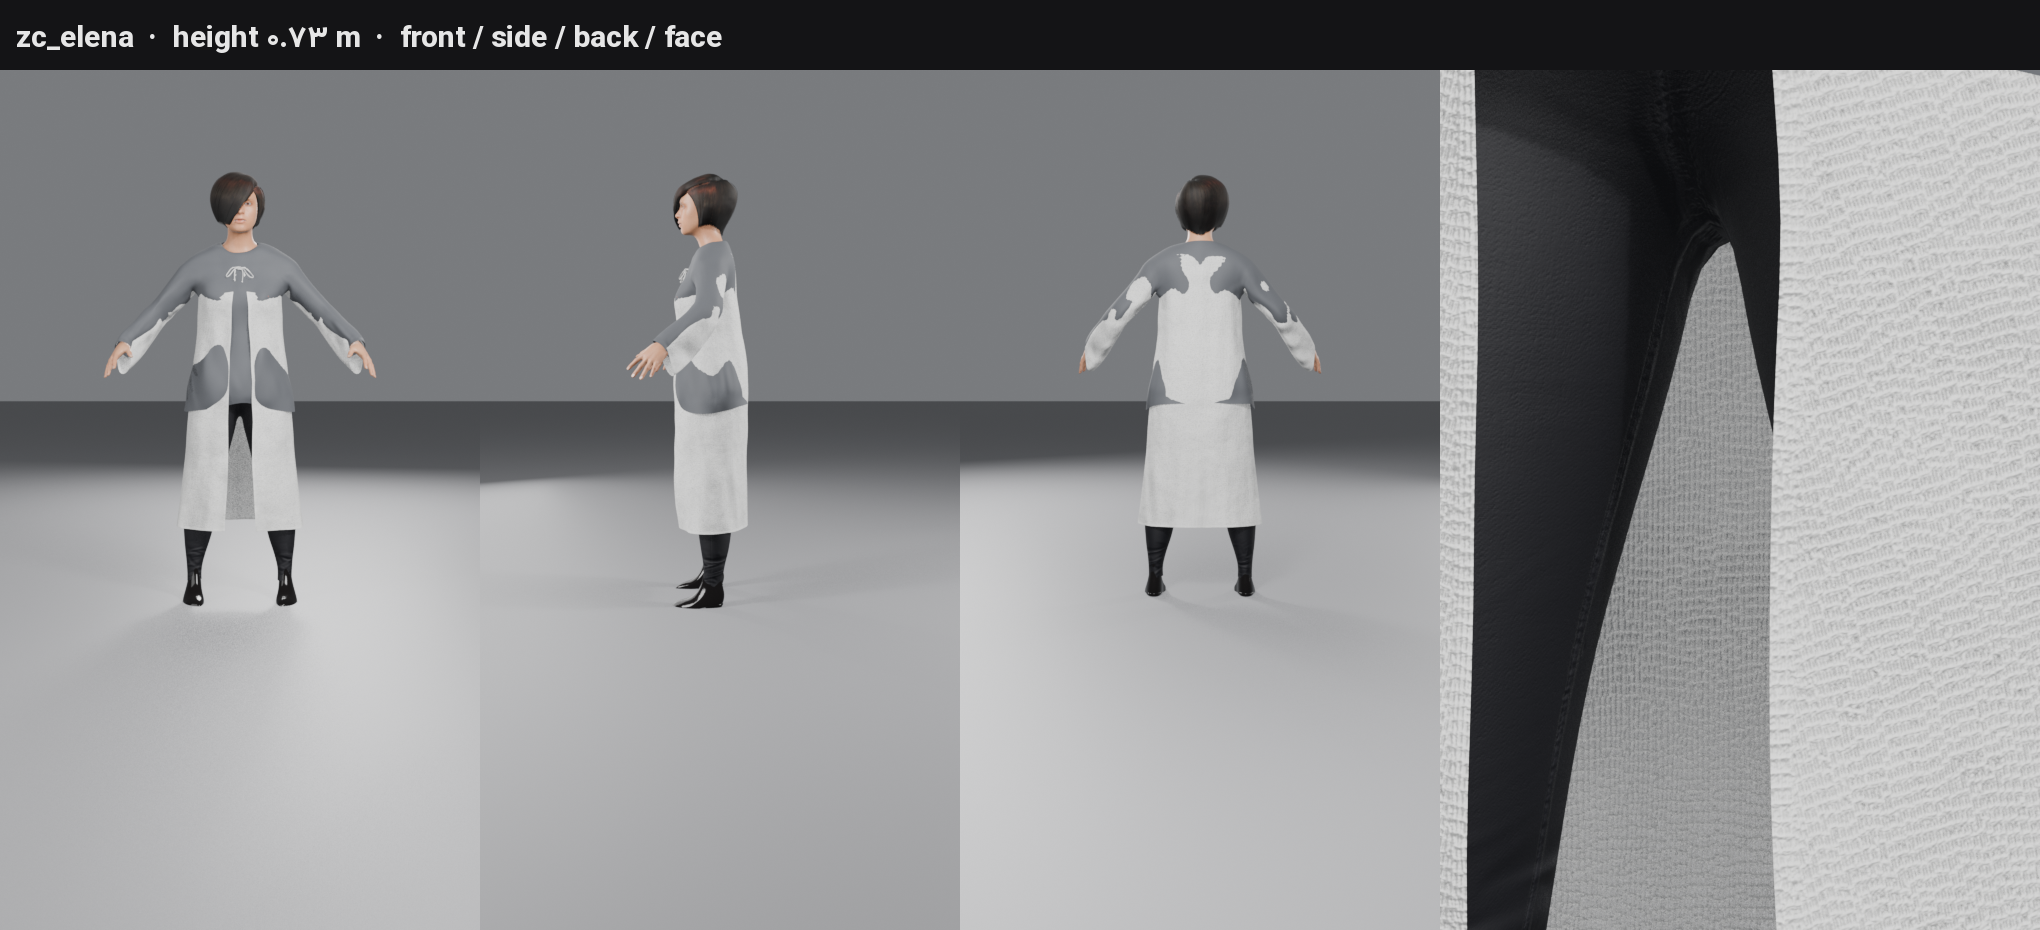
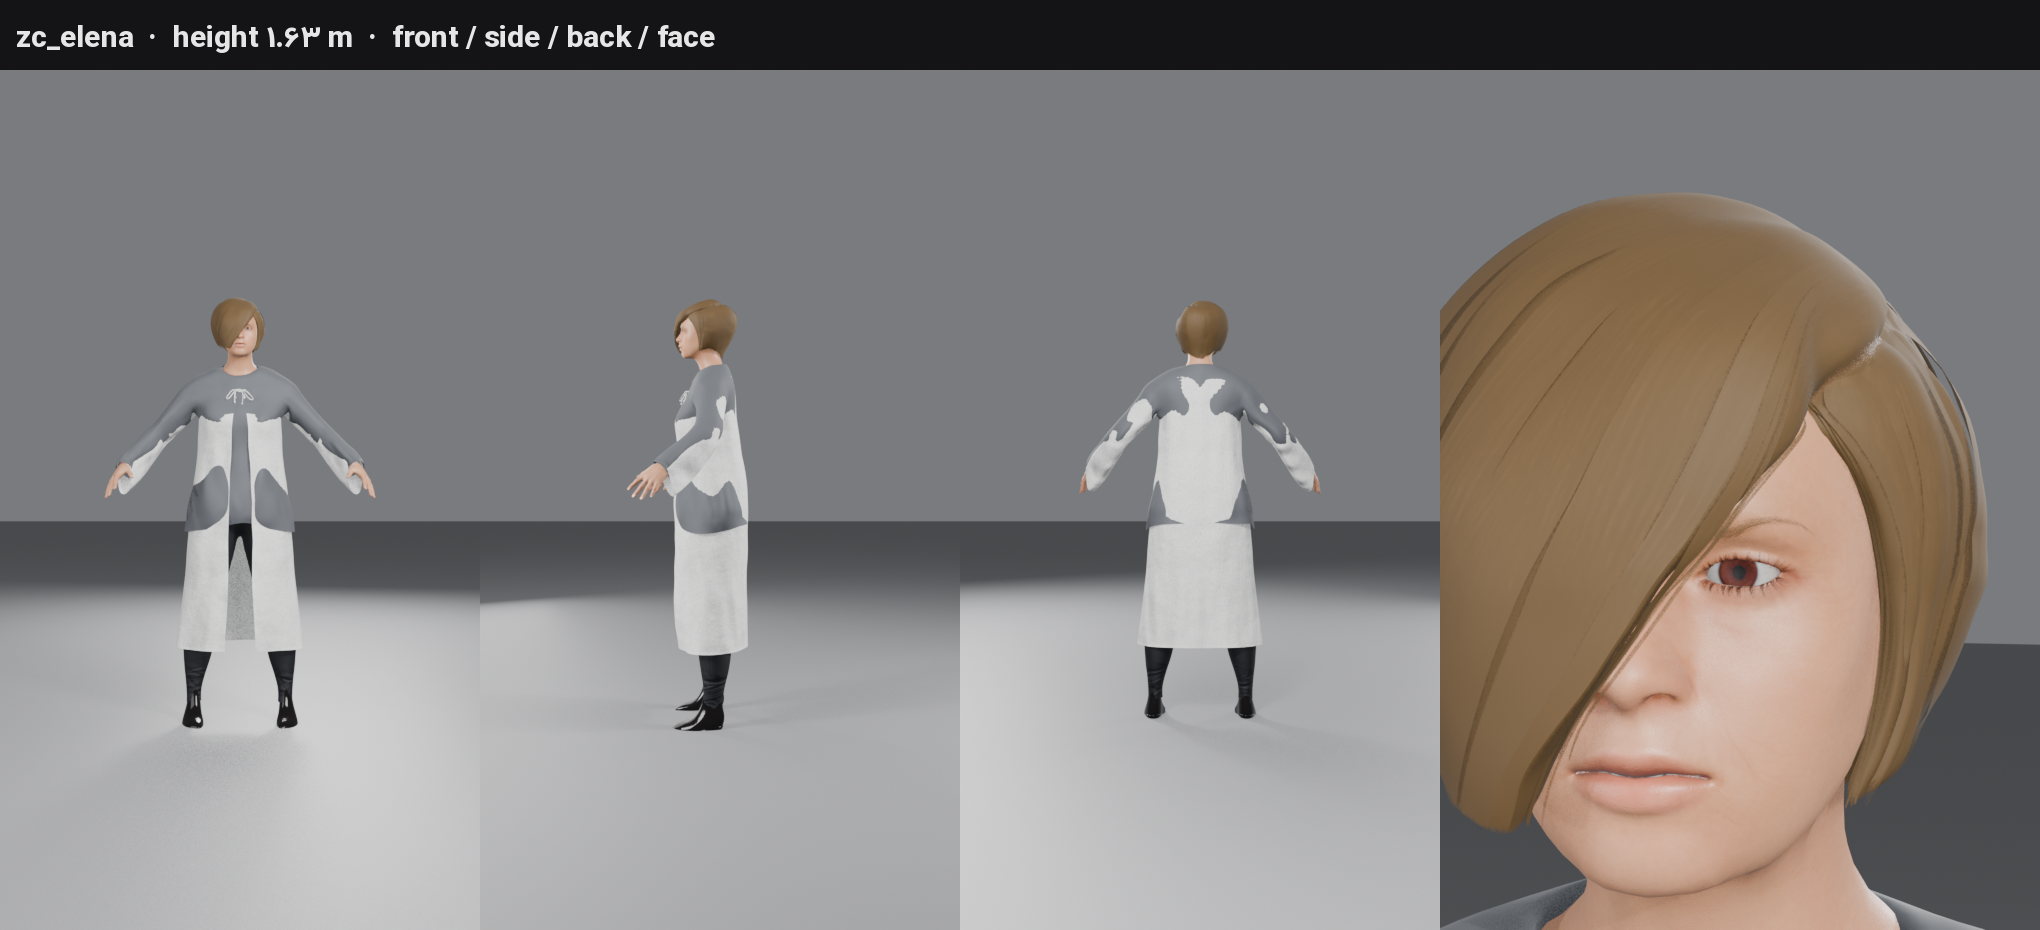
Zombie Center: cast fixes round 2 (cap material, Elena tee+bob02, dark eyes, hair hang, scalp layer)
Claude-Session: https://claude.ai/code/session_0195jcA6aNEjGkEhpvKfuJLv

diff --git a/blender/zombie_center/zc_cast.py b/blender/zombie_center/zc_cast.py
@@ -16,7 +16,8 @@ ZC = {
     "zc_arin": dict(
         fa="آرین", role="Subject 001. 19, lean, black centre-parted hair, dark eyes, small scar at the LEFT eyebrow.",
         gender=1.0, age=0.43, height=0.55, weight=0.42, muscle=0.5, skin="young_caucasian_male", skin_tint=OLIVE,
-        hair=None, strand_hair="centre_part", brow="eyebrow006", brow_col=(0.03, 0.025, 0.022), dark_eyes=True,
+        hair="short04", hair_col=(0.02, 0.018, 0.018), strand_hair="centre_part",   # short04 = dark scalp layer under the strands
+        brow="eyebrow006", brow_col=(0.03, 0.025, 0.022), dark_eyes=True,
         scar="left_brow",
         clothes={"male_casualsuit05": (0.16, 0.17, 0.18), "toigo_ankle_boots_male": (0.12, 0.1, 0.09)}),
     "zc_nika": dict(
@@ -27,10 +28,10 @@ ZC = {
     "zc_elena": dict(
         fa="دکتر النا", role="Scientist, 48. Dark-blonde jaw-length bob, white lab coat over grey top, dark trousers.",
         gender=0.0, age=0.68, height=0.5, weight=0.45, muscle=0.35, skin="middleage_caucasian_female", skin_tint=WARM,
-        hair="bob01", hair_set=(0.5, 0.39, 0.25), brow="eyebrow011", brow_col=(0.3, 0.22, 0.14),
-        clothes={"janexx_old_female_sweater": None, "mindfront_female_trousers_1": None,
+        hair="bob02", hair_set=(0.5, 0.39, 0.25), brow="eyebrow011", brow_col=(0.3, 0.22, 0.14), dark_eyes=True,
+        clothes={"joepal_crude_t-shirt_female": None, "mindfront_female_trousers_1": None,
                  "toigo_ankle_boots_female": (0.1, 0.09, 0.09), "mindfront_cardigan_long_open_front": None},
-        flat={"janexx_old_female_sweater": (0.36, 0.37, 0.39), "mindfront_female_trousers_1": (0.12, 0.12, 0.14),
+        flat={"joepal_crude_t-shirt_female": (0.36, 0.37, 0.39), "mindfront_female_trousers_1": (0.12, 0.12, 0.14),
               "mindfront_cardigan_long_open_front": (0.93, 0.93, 0.92)}),
     "zc_sara": dict(
         fa="سارا", role="Survivor, 23. Dark-brown hair in a low ponytail, olive field jacket, black jeans, worn boots.",
@@ -41,7 +42,7 @@ ZC = {
     "zc_mark": dict(
         fa="مارک", role="Security guard, 52. Short grey hair, plain dark uniform shirt and cargo trousers, boots. No badges.",
         gender=1.0, age=0.71, height=0.6, weight=0.58, muscle=0.62, skin="middleage_caucasian_male", skin_tint=WARM,
-        hair="short04", hair_set=(0.5, 0.49, 0.47), brow="eyebrow006",
+        hair="short04", hair_set=(0.5, 0.49, 0.47), brow="eyebrow006", dark_eyes=True,
         clothes={"elvs_male_shirt_untucked_bd1": (0.1, 0.11, 0.13), "mindfront_male_trousers_2": (0.1, 0.1, 0.11),
                  "culturalibre_male_boots": (0.08, 0.07, 0.07)}),
     "zc_sam": dict(
@@ -63,12 +64,18 @@ def spawn(key, **kw):
 
 def finish(ch, d):
     """The parts of the master look that cast.py doesn't know about (same every time)."""
-    import mpfb_tools as M, zc_look, zc_hair
+    import bpy, mpfb_tools as M, zc_look, zc_hair
     if d.get("brow_col"):
         for o in ch.parts.get("Eyebrows", []):
             M.set_color(o, d["brow_col"], keep=0.5)
     for asset, rgb in d.get("flat", {}).items():     # solid colour: no printed patterns / logos survive
         for o in ch.parts.get("by_asset", {}).get(asset, []):
+            if not any(ms.material for ms in o.material_slots):     # asset shipped without a material
+                m = bpy.data.materials.new(o.name + "_flat"); m.use_nodes = True
+                b = m.node_tree.nodes["Principled BSDF"]
+                b.inputs["Base Color"].default_value = (*M.lin(rgb), 1); b.inputs["Roughness"].default_value = 0.8
+                o.data.materials.clear(); o.data.materials.append(m)
+                continue
             M.set_color(o, rgb, keep=0.04)
             for ms in o.material_slots:
                 m = ms.material

diff --git a/blender/zombie_center/zc_hair.py b/blender/zombie_center/zc_hair.py
@@ -140,7 +140,10 @@ def centre_part_hair(ch, n=20000, seed=1, colour=(0.012, 0.010, 0.010), name=Non
                 want = layer * min(1.0, 0.3 + t_)
                 if h < want or h > want + 0.006:
                     p = loc + nor * (want if h < want else want + 0.006)
-            if p.z < stop_z:                       # never below the brows (front) / ear tops (sides)
+            if abs(p.x - cx) > 0.068 and p.z < ear_z + 0.03:   # nothing hangs down beside the face
+                p = pts[-1] + (p - pts[-1]) * 0.15
+                step *= 0.3
+            elif p.z < stop_z:                       # never below the brows (front) / ear tops (sides)
                 p = pts[-1] + (p - pts[-1]) * 0.15
                 step *= 0.3
             pts.append(p.copy())
